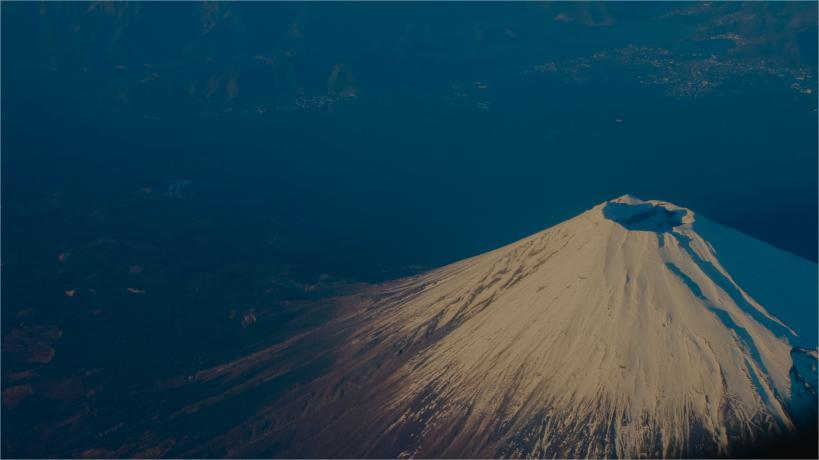
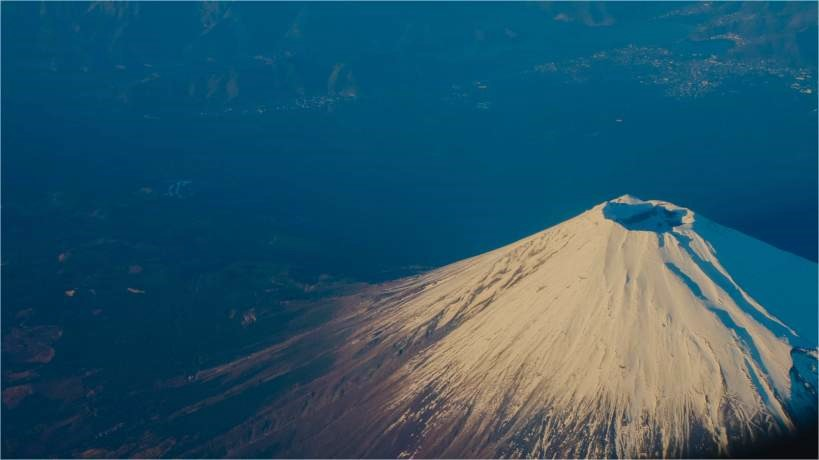
Finaliza hero para tablets e desktop

diff --git a/css/hero.css b/css/hero.css
@@ -92,3 +92,38 @@
     line-height: 32px;
     font-weight: var(--text-weigth);
 }
+
+@media screen and (min-width: 768px) {
+    .pacotes-container {
+        background: url(/img/pacotes-hero-tablet.png) no-repeat;
+        height: 620px;
+        background-size: cover;
+        background-position: 80% 100%;
+    }
+
+    .text-hero {
+        padding: 210px 70px 108px 120px;
+    }
+
+    .text-hero p {
+        font-size: 32px;
+        line-height: 150%;
+    }
+}
+
+@media screen and (min-width: 1440px) {
+    .pacotes-container {
+        background: url(/img/pacotes-hero-desktop.png) no-repeat;
+        background-size: cover;
+    }
+
+    .text-hero {
+        display: flex;
+        flex-direction: column;
+        justify-content: center;
+        height: 100%;
+        margin-left: 120px;
+        padding: 0px;
+        max-width: 580px;
+    }
+}
